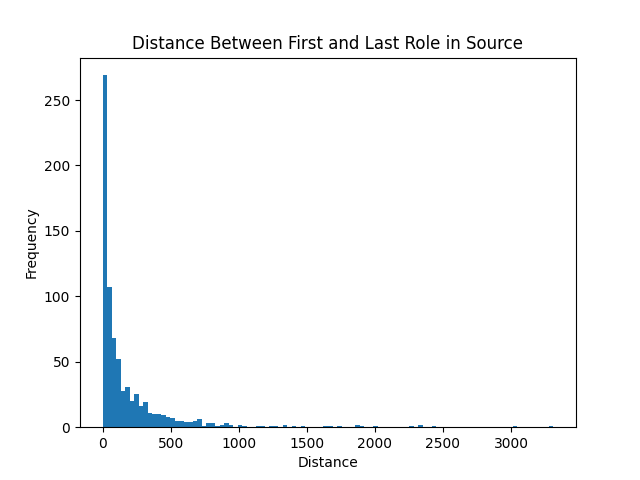
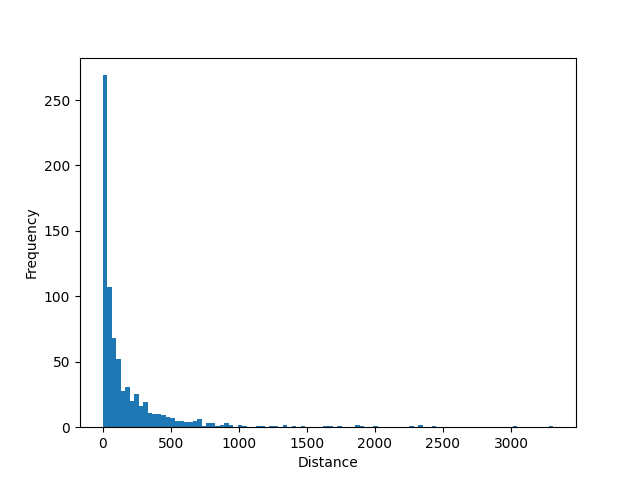
omit plot titles from figures

Changed region(s): [[0.1875, 0.0625, 0.8125, 0.125]]

diff --git a/src/data_processing/statistics/distance_stats.py b/src/data_processing/statistics/distance_stats.py
@@ -154,8 +154,9 @@ def trigger_distance(data: list, verbose=False):
         else:
             # compute distances between first and last role in report
             for role in report_roles:
-                role_distances.append(distance(role, trigger_span))
-            report_distances.append(np.mean(role_distances))
+                report_distances.append(distance(role, trigger_span))
+            #     role_distances.append(distance(role, trigger_span))
+            # report_distances.append(np.mean(role_distances))
 
     if len(report_distances) != 0:
         avg_distance = np.mean(report_distances)
@@ -197,14 +198,14 @@ def main():
     report_fig_name = 'report_distances_' + args.dataset + '.png'
     source_fig_name = 'source_distances_' + args.dataset + '.png'
     plt.hist(report_distances, bins=100)
-    plt.title("Distance Between First and Last Role in Report")
+    # plt.title("Distance Between First and Last Role in Report")
     plt.xlabel("Distance")
     plt.ylabel("Frequency")
     plt.savefig(os.path.join(args.output_dir, report_fig_name))
     plt.clf()
 
     plt.hist(source_distances, bins=100)
-    plt.title("Distance Between First and Last Role in Source")
+    # plt.title("Distance Between First and Last Role in Source")
     plt.xlabel("Distance")
     plt.ylabel("Frequency")
     plt.savefig(os.path.join(args.output_dir, source_fig_name))
@@ -212,7 +213,7 @@ def main():
 
     trigger_distance_fig_name = 'trigger_distances_' + args.dataset + '.png'
     plt.hist(trigger_distances, bins=100)
-    plt.title("Average Distances Between Arguments and Trigger in Report")
+    # plt.title("Average Distances Between Arguments and Trigger in Report")
     plt.xlabel("Distance")
     plt.ylabel("Frequency")
     plt.savefig(os.path.join(args.output_dir, trigger_distance_fig_name))
